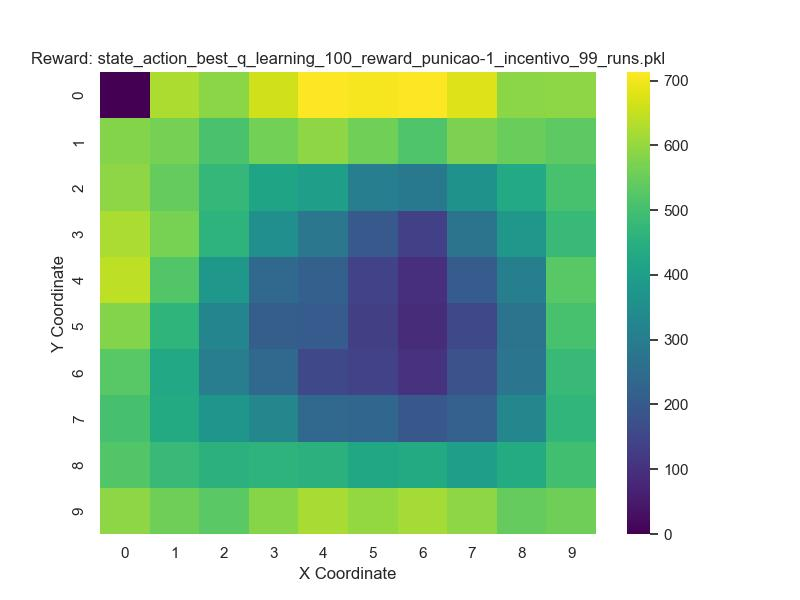
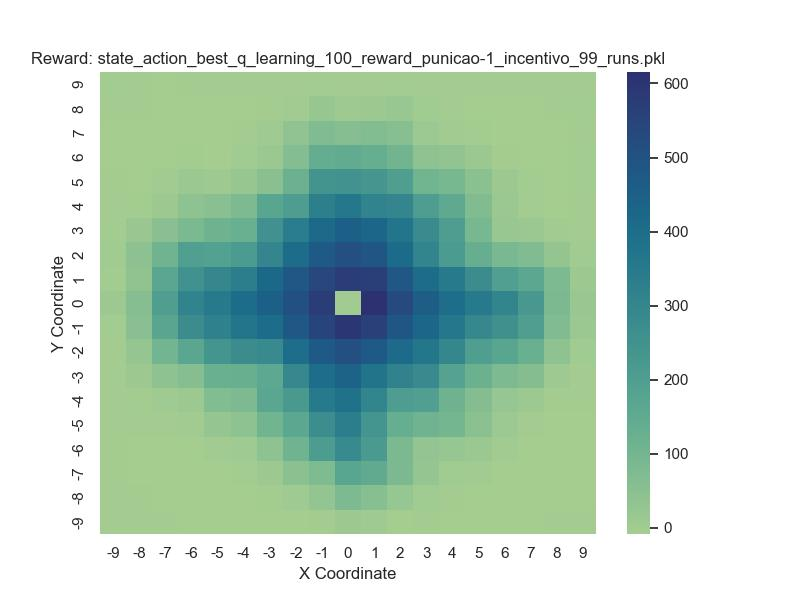
Added Fixed Graphs

diff --git a/head_map_fix.py b/head_map_fix.py
@@ -1,0 +1,75 @@
+#!/usr/bin/env python
+# coding: utf-8
+
+# In[14]:
+
+
+# A proxima célula le a função valor salva dos treinamentos anteriores e plota ela
+# Assim, podemos avaliar como se comportam
+
+import numpy as np
+import pickle
+import os
+import seaborn as sns
+sns.set()
+import matplotlib.pyplot as plt
+import pandas as pd
+
+
+def process_and_plot(data, file, current_path):
+    if current_path == "reward_state_actions":
+        title = "Reward"
+    elif current_path == "reward_state_actions":
+        title = "Steps"
+    else:
+        title = "loops"
+    heatmap = np.zeros((19, 19))  # Assuming coordinates range from 0 to 9
+
+    for (coords, _), value in data.items():
+        x, y = coords
+        heatmap[x+9][y+9] += value  # Summing up values; you can also use np.mean() for averaging
+
+    plt.figure(figsize=(8, 6))
+    ax = sns.heatmap(heatmap, cmap='crest', fmt=".2f")
+    ax.invert_yaxis()
+    # sns.heatmap(heatmap, cmap='viridis', fmt=".2f",  annot=True,)
+    plt.title(f'{title}: {file}')
+    ax.set_xticklabels([-9,-8,-7,-6,-5,-4,-3,-2,-1,0,1,2,3,4,5,6,7,8,9])
+    ax.set_yticklabels([-9,-8,-7,-6,-5,-4,-3,-2,-1,0,1,2,3,4,5,6,7,8,9])
+    plt.xlabel('X Coordinate')
+    plt.ylabel('Y Coordinate')
+    plt.savefig(f"data\\Q_learning\\{current_path}\\graphs\\graph_{file}.jpeg")
+    # plt.show()
+
+path = 'data\\Q_learning\\'
+
+# loop_files = os.listdir(f"{path}loop_steps")
+# # print(loop_files)
+# steps = []
+# loop_ratios = []
+# for file in loop_files:
+#     with open(f"{path}loop_steps\\{file}", 'rb') as fp:
+#         step, loop_ratio =  pickle.load(fp)
+#         steps.append(step)
+#         loop_ratios.append(loop_ratio)
+
+
+current_path = "reward_state_actions"
+reward_state_path = f"{path}{current_path}\\"
+print(f"reward_state_path: {reward_state_path}")
+reward_state_action = os.listdir(reward_state_path)
+print(f"Files: {reward_state_action}")
+for file in reward_state_action[1:]:
+    print(file)
+    with open(f"{reward_state_path}{file}", 'rb') as fp:
+        value_function = pickle.load(fp)
+        process_and_plot(value_function, file, current_path)
+
+# steps_state_path = f"{path}steps_state_actions/"
+# steps_state_action = os.listdir(steps_state_path)
+# for file in steps_state_action:
+#     #print(file)
+#     with open(f"{steps_state_path}{file}", 'rb') as fp:
+#         value_function = pickle.load(fp)
+#         #print(value_function)
+#         process_and_plot(value_function, file)
